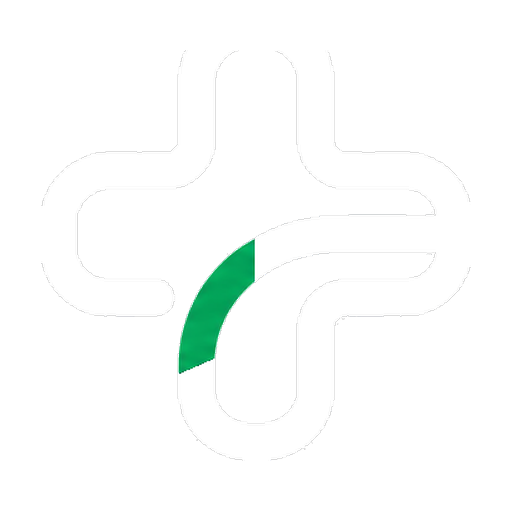
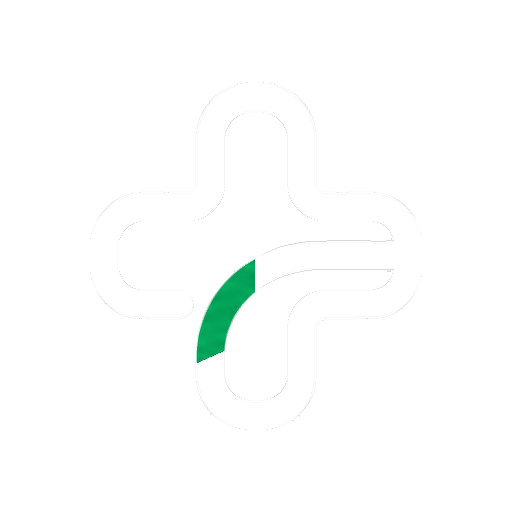
Isotipo light: cruz completa con aire, no recortada arriba
El PNG farmacapital-icon-light tenía el brazo de arriba cortado.
Se regenera desde el lockup oficial con más padding y se rompe caché.

Changed region(s): [[0.3438, 0.4688, 0.5, 0.75], [0.625, 0.4688, 0.6562, 0.5]]

diff --git a/src/brand.js b/src/brand.js
@@ -1,6 +1,6 @@
 // Logotipo oficial FarmaCapital — PNG maestro HD (1754×897)
 const BASE = process.env.PUBLIC_URL || "";
-const V = "6";
+const V = "7";
 
 export const BRAND_LOGO = {
   /** Recorte HD ~1623×358 — escalar hacia abajo = nítido */

diff --git a/scripts/generate_brand_assets.py b/scripts/generate_brand_assets.py
@@ -178,11 +178,11 @@ def main():
     save_png(light.resize((lw // 2, max(1, lh // 2)), Image.Resampling.LANCZOS),
              os.path.join(OUT_BRAND, "farmacapital-logo-full-light@1x.png"))
 
-    icon_master = fit_square(icon_src, 512, pad=0.08)
+    icon_master = fit_square(icon_src, 512, pad=0.16)
     save_png(icon_master, os.path.join(OUT_BRAND, "farmacapital-icon.png"))
 
     icon_light_src = make_light_variant(icon_src)
-    icon_light_master = fit_square(icon_light_src, 512, pad=0.08)
+    icon_light_master = fit_square(icon_light_src, 512, pad=0.16)
     save_png(icon_light_master, os.path.join(OUT_BRAND, "farmacapital-icon-light.png"))
 
     for s in (16, 32, 48, 72, 96, 128, 192, 512):
